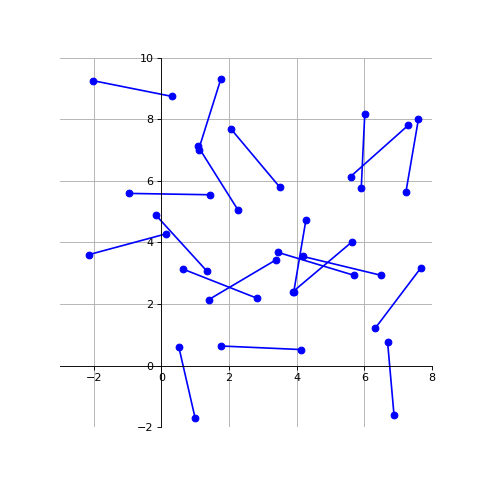
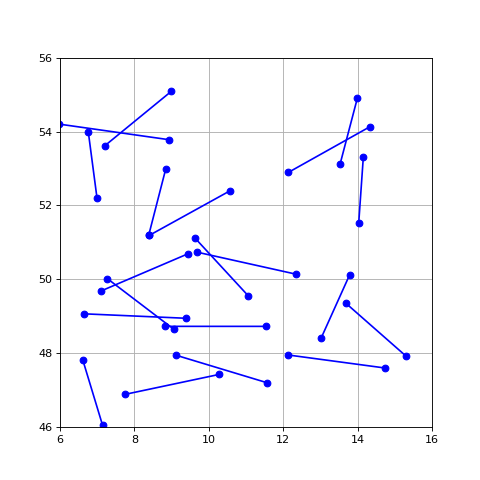
Punkt Peilung auf einer Kugel

diff --git a/GeolocalDivision.py b/GeolocalDivision.py
@@ -2,49 +2,35 @@ import numpy as np
 import pandas as pd
 import matplotlib as mlp
 import matplotlib.pyplot as plt
-deutlschland_laenge = 876
-deutschland_breite = 640
-linke_raster_grenze = 47.3
-rechte_raster_grenze = 54.9
-untere_raster_grenze = 6.0
-obere_raster_grenze = 15.0
-raster_groeße = 100
-korrekturwert = 270
-spiegelung = (-1)
 winkelumrechung = np.pi / 180
-reichweite  = 2.375
-horizontale_raster_groeße = (rechte_raster_grenze - linke_raster_grenze) / raster_groeße
-vertikale_raster_groeße = (obere_raster_grenze - untere_raster_grenze) / raster_groeße
+reichweite  = 200 / 1.852
+entfernung = reichweite *(np.pi / (180*60))
 df = pd.read_csv("Geolocal.csv", names=["Breitengrad", "Laengengrad", "Kompassausrichtung"])
-df["x_1"] = df["Breitengrad"] - linke_raster_grenze
-df["y_1"] = df["Laengengrad"] - untere_raster_grenze
-df["Breitenraster"] = df["x_1"] / horizontale_raster_groeße
-df["Laengenraster"] = df["y_1"] / horizontale_raster_groeße
-df["Breitenraster"] = df["Breitenraster"].astype(int)
-df["Laengenraster"] = df["Laengenraster"].astype(int)
-df["Start_Raster"] = df["Laengenraster"] * raster_groeße + df["Breitenraster"]
-df["Steigung"] = np.tan(((df["Kompassausrichtung"] - korrekturwert) * spiegelung) * winkelumrechung)
-df["yAchsenabschnitt"] = (df["y_1"] - (df["Steigung"] * df["x_1"]))
-df["Ankathete"] = (np.cos((df["Kompassausrichtung"] - korrekturwert) * winkelumrechung) * reichweite)
-df["x_2"] = df["x_1"] - df["Ankathete"]
-df["y_2"] = (df["Steigung"] * df["x_2"]) + df["yAchsenabschnitt"]
+df["Breite"] = df["Breitengrad"] * winkelumrechung
+df["Laenge"] = df["Laengengrad"] * winkelumrechung
+df["Richtung"] = df["Kompassausrichtung"] * winkelumrechung
+df["Lat"] = np.arcsin(np.sin(df["Breite"]) * np.cos(entfernung) + np.cos(df["Breite"]) * np.sin(entfernung) * np.cos(df["Richtung"]))
+df["x_1"] = np.cos(entfernung)-(np.sin(df["Breite"])*np.sin(df["Lat"]))
+df["y_1"] = np.sin(df["Richtung"])*np.sin(entfernung)*np.cos(df["Breite"])
+df["dLon"] = (-1) * (np.arctan2(df["y_1"],df["x_1"]))
+df["Lon"] = (df["Laenge"] - df["dLon"] + np.pi) - np.trunc((df["Laenge"] - df["dLon"] + np.pi) / 2 / np.pi) - np.pi
+df["x_2"] = df["Lon"] / winkelumrechung
+df["y_2"] = df["Lat"] / winkelumrechung
 df.to_csv("Geolocalkomplex.csv")
-#df = df.drop(columns=["x_1", "y_1"])
-df = df.drop(columns=["Breitenraster", "Laengenraster", "Steigung", "yAchsenabschnitt", "Ankathete"])
 print(df)
 plt.ylabel("Längengrad")
 plt.xlabel("Breitengrad")
 plt.figure(figsize=(6,6), dpi=80)
 plt.subplot(111)
-plt.plot([df["x_1"], df["x_2"]], [df["y_1"], df["y_2"]], color='blue', linestyle='-', marker='o')
-plt.axis([-3, 8, -2, 10])
+plt.plot([df["Laengengrad"], df["x_2"]], [df["Breitengrad"], df["y_2"]], color='blue', linestyle='-', marker='o')
+plt.axis([6, 16, 46, 56])
 plt.grid(True)
-ax = plt.gca()
-ax.spines['right'].set_color('none')
-ax.spines['top'].set_color('none')
-ax.spines['left'].set_position(('data',0))
-ax.spines['bottom'].set_position(('data',0))
-ax.xaxis.set_ticks_position('bottom')
-ax.yaxis.set_ticks_position('left')
-plt.show()
+#ax = plt.gca()
+#ax.spines['right'].set_color('none')
+#ax.spines['top'].set_color('none')
+#ax.spines['left'].set_position(('data',0))
+#ax.spines['bottom'].set_position(('data',0))
+#ax.xaxis.set_ticks_position('bottom')
+#ax.yaxis.set_ticks_position('left')
+#plt.show()
 plt.savefig("Koordinatensystem.png")
